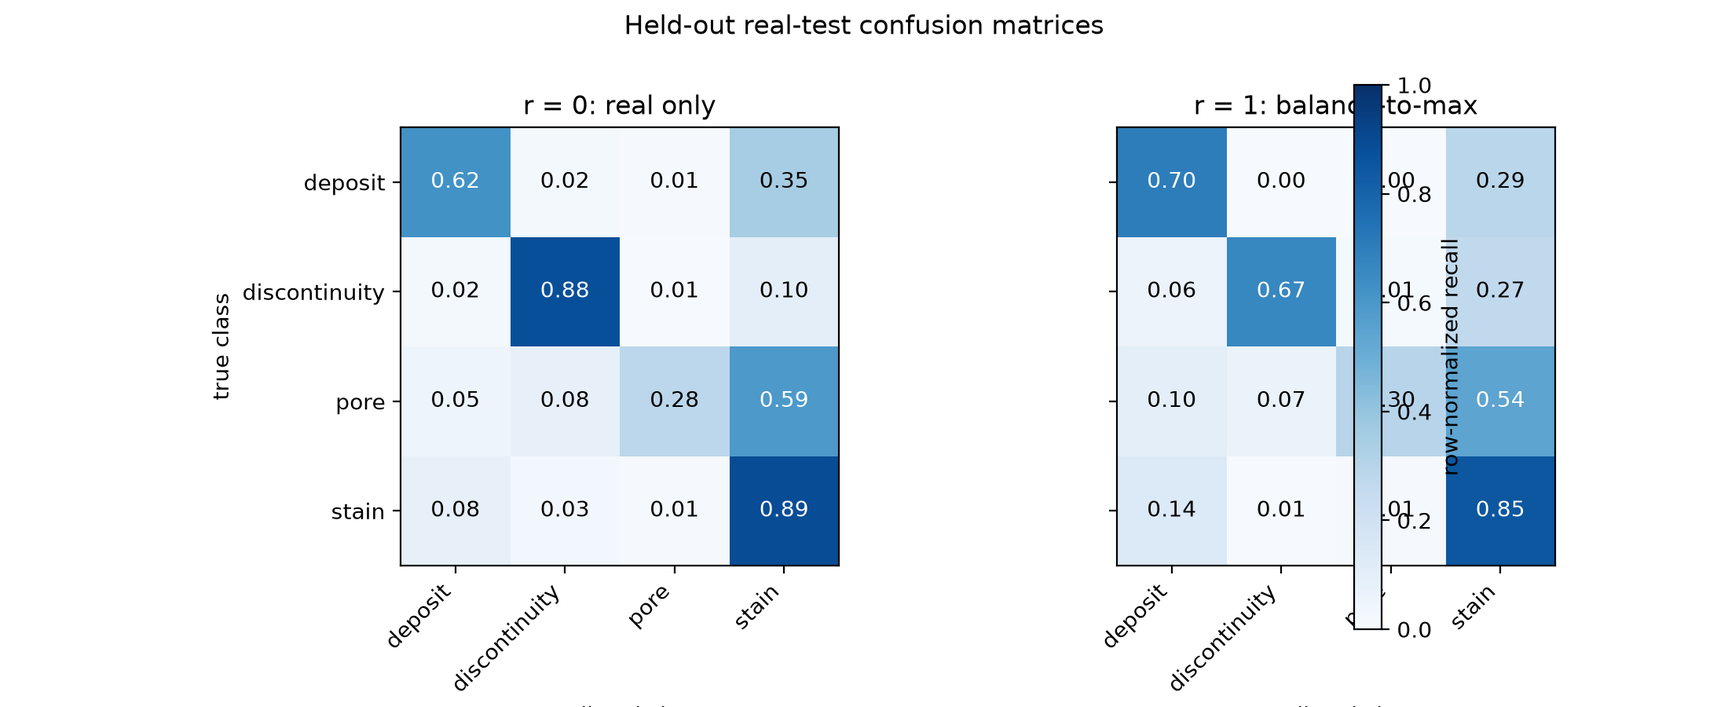
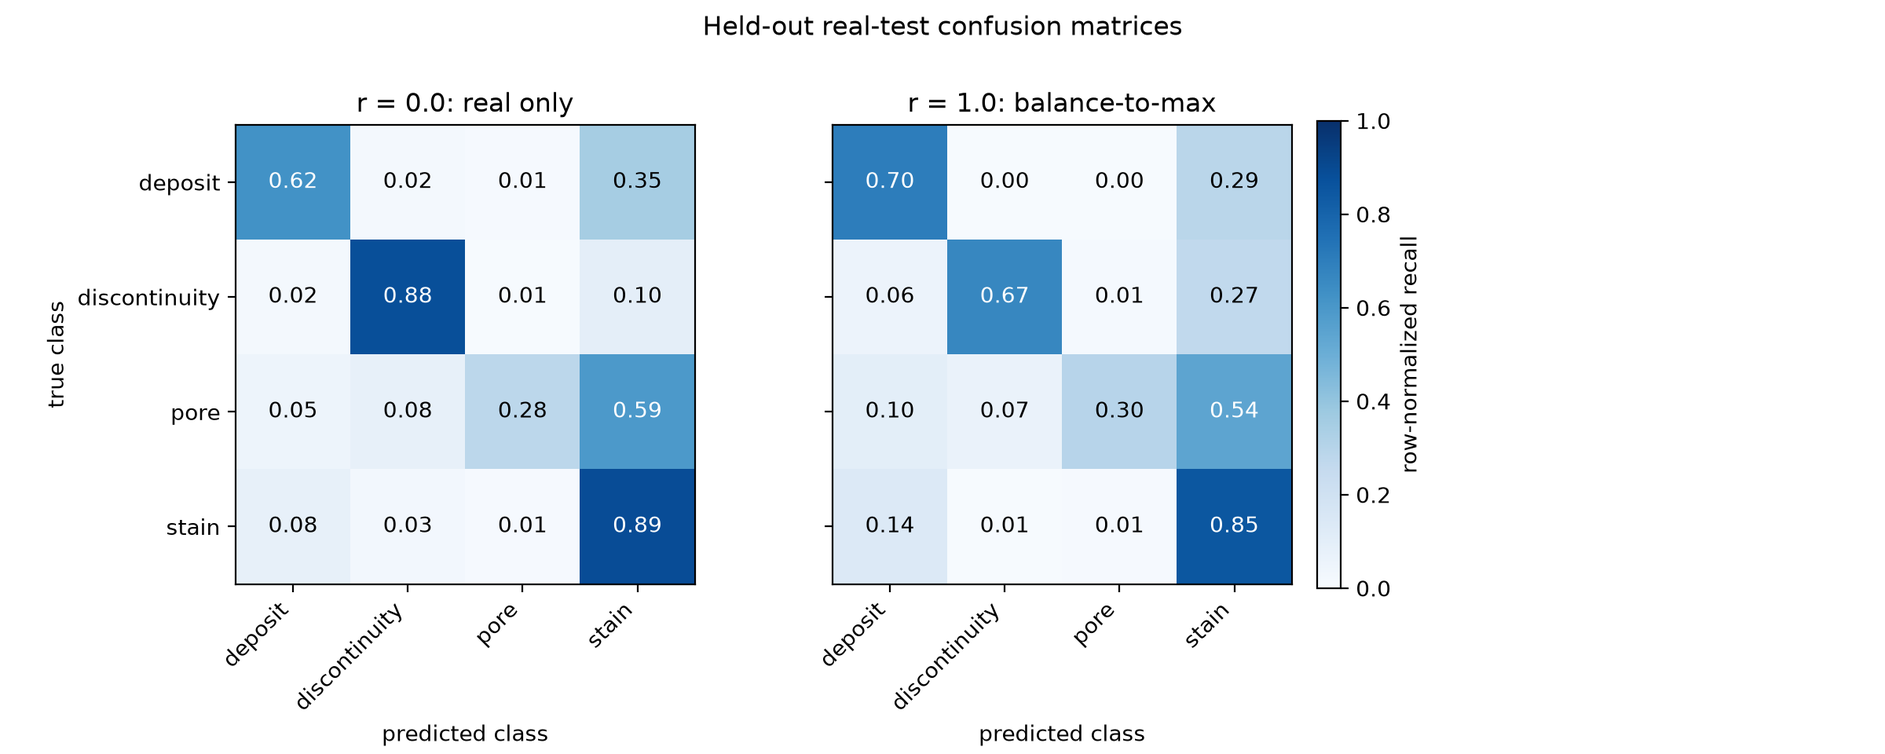
Add Chinese README and fix confusion-matrix colorbar overlap
README_zh-CN.md mirrors the English README so Chinese-speaking readers can
pick up the reproduction without translating it first; both files carry a
language nav link and a note that the English version is normative.

The shared colorbar was created before subplots_adjust, so its position came
from the pre-adjustment layout and the axes then moved underneath it, covering
the right matrix. Reserve the right gutter first and create the colorbar after.

diff --git a/src/make_paper_figures.py b/src/make_paper_figures.py
@@ -163,7 +163,7 @@ def save_confusion_matrices(class_names, condition_a, condition_b, output,
                             labels=("r = 0.0: real only", "r = 1.0: balance-to-max")):
     """Side-by-side row-normalised confusion matrices for two conditions."""
     matrices = [normalize_confusion_matrix(condition_a), normalize_confusion_matrix(condition_b)]
-    fig, axes = plt.subplots(1, 2, figsize=(11, 4.5), sharey=True)
+    fig, axes = plt.subplots(1, 2, figsize=(12, 4.8), sharey=True)
     image = None
     for axis, matrix, title in zip(axes, matrices, labels):
         image = axis.imshow(matrix, vmin=0, vmax=1, cmap="Blues")
@@ -175,11 +175,12 @@ def save_confusion_matrices(class_names, condition_a, condition_b, output,
             axis.text(column, row, f"{matrix[row, column]:.2f}", ha="center", va="center",
                       color="white" if matrix[row, column] > 0.5 else "black")
     axes[0].set_ylabel("true class")
-    fig.colorbar(image, ax=axes, label="row-normalized recall")
     fig.suptitle("Held-out real-test confusion matrices")
-    # A shared colorbar makes the axes incompatible with tight_layout, which would
-    # emit a UserWarning; position them explicitly instead.
-    fig.subplots_adjust(top=0.82, bottom=0.2, wspace=0.15)
+    # Reserve the right-hand gutter BEFORE creating the colorbar: creating it first
+    # and adjusting afterwards leaves the colorbar positioned over the right matrix.
+    # tight_layout is avoided because a shared colorbar makes it emit a UserWarning.
+    fig.subplots_adjust(top=0.84, bottom=0.22, wspace=0.30, right=0.80)
+    fig.colorbar(image, ax=axes.tolist(), pad=0.02, label="row-normalized recall")
     _save(fig, output)
 
 

diff --git a/README_zh-CN.md b/README_zh-CN.md
@@ -1,0 +1,255 @@
+# 面向 WAAM 缺陷图像增广的 Hybrid CVAE-CGAN（非官方复现）
+
+**语言 / Language:** [English](README.md) | 中文
+
+> **同步声明**：英文版 `README.md` 为规范版本（normative）。本中文版与其保持同步更新；若两者出现不一致，以英文版为准。
+
+本仓库是对下列论文所提 hybrid CVAE-CGAN 框架的**非官方、方法学层面**的复现尝试：
+
+> Junle Yang, Lei Yuan, Haochen Mu, Fengyang He, Donghong Ding, Zengxi Pan, Huijun Li, *"Generation of WAAM Defect Images Using a Hybrid CVAE-CGAN: A Data Augmentation Strategy for Small and Imbalanced Datasets"*, Proc. 15th IEEE Int. Conf. on CYBER Technology in Automation, Control, and Intelligent Systems (CYBER 2025), Shanghai, China, 15-18 July 2025. DOI: [10.1109/CYBER67662.2025.11168313](https://doi.org/10.1109/CYBER67662.2025.11168313)
+
+会议论文省略的架构与超参细节，取自同一第一作者的期刊扩展：
+
+> Junle Yang, Lei Yuan, Fengyang He, Zening Wu, Donghong Ding, Zengxi Pan, Huijun Li, *"Physics-guided generative data augmentation for vision-based signal processing under class-imbalanced conditions in directed energy deposition monitoring system"*, Mechanical Systems and Signal Processing, vol. 250, article 114138, 2026. **开放获取（CC BY 4.0）**：DOI: [10.1016/j.ymssp.2026.114138](https://doi.org/10.1016/j.ymssp.2026.114138)
+
+如果本仓库对你的工作有帮助，请引用**上述原始论文**而不是本仓库——它们是方法的来源，本复现的存在正是为了把读者引向它们。
+
+本仓库作为**公开参考**，面向任何想做类似复现的人：记录从论文复现了什么、使用了哪个公开替代数据集、以及实现与原文在哪些地方偏离。
+
+该方法生成类条件焊缝缺陷图像，用于增广小而失衡的数据集。它是**单个联合训练的 hybrid 模型**，而非两阶段流水线：同一个解码器同时充当 CVAE 解码器 `D(z, y)` 与 CGAN 生成器 `G(z, y)`，这正是此处 "hybrid" 的含义。训练最小化如下联合目标：
+
+```
+L_G = MSE_recon  +  beta * KL  +  lambda * VGG19_perceptual  +  gamma * adversarial
+```
+
+生成器与判别器在每个 minibatch 内交替更新、各自反向传播。KL 项把隐空间塑向 `N(0, I)`，使得生成阶段用 `z ~ N(0, I)` 加类标签采样可行；感知项与对抗项负责锐化纯 VAE 会留下的模糊。
+
+## 免责声明
+
+- 本仓库是**仅基于已发表论文的独立复现**，**与原作者及其机构无隶属、背书或任何关联**。
+- 原作者的 WAAM 数据集为专有数据，本项目**未使用、未访问、未索取**。
+- 所有实验均在**公开可获取、许可开放的数据集**上进行（见 `DATA_SOURCES.md`）。各数据集自身许可适用；署名要求保留在数据下载说明中。
+- 本仓库不复制论文中的任何图、表或文字。
+- 本项目复现的是*方法*，**不**声称复现论文的实验结果或报告数字。
+
+## 快速开始
+
+```bash
+pip install -r requirements.txt
+
+# 合成数据自检——任何代码改动后都应先跑这个
+python src/smoke_test.py
+
+# 训练联合模型。--subset 以类名键入，定义小而失衡的训练集；
+# held-out 测试划分先切出，因此生成器永远看不到它。
+python src/train_joint.py --data_root data/lohi \
+  --subset "pore=40,deposit=150,discontinuity=300,stain=600" --val_per_class 200 \
+  --epochs 70 --batch_size 8 --img_size 224 --channels 3 --latent_dim 32 \
+  --lr 1e-3 --lr_d 1e-3 --kl_weight 0.015 --perc_weight 0.1 --adv_weight 0.1 \
+  --out_dir runs/joint_lohi
+
+# 生成 balance-to-max 池：filling rate 1.0 每类所需数量。
+# 类名从 checkpoint 读取并校验，绝不假设。
+python src/generate.py --ckpt runs/joint_lohi/joint.pt \
+  --counts "pore=560,deposit=450,discontinuity=300,stain=0" --out_root generated
+
+# 下游扫描：每个 filling rate 一个从零训练的分类器，
+# 全部在同一个 held-out 真实测试集上评估。
+python src/train_classifier.py --data_root data/lohi --gen_root generated \
+  --subset "pore=40,deposit=150,discontinuity=300,stain=600" \
+  --ratios "0.0,0.25,0.5,0.75,1.0" --channels 3 --epochs 100 --out_dir runs/sweep
+
+# 论文风格图（训练曲线、filling-rate 敏感性、latent t-SNE、
+# 真实/重建/生成、混淆矩阵、类别分布）
+python src/make_paper_figures.py --data_root data/lohi \
+  --ckpt runs/joint_lohi/joint.pt --history runs/joint_lohi/history.csv \
+  --sweep runs/sweep/sweep_metrics.csv --cm_dir runs/sweep \
+  --subset "pore=40,deposit=150,discontinuity=300,stain=600" --channels 3 \
+  --out_dir results
+
+# 独立 FID：两棵图像目录之间
+python src/eval_fid.py --real_root data/lohi --fake_root generated --channels 3
+```
+
+### 使用你自己的数据集
+
+把 `--data_root` 指向一个"类名子文件夹"结构即可。其余均与数据集无关：
+
+- 类别身份在所有地方都**以类名**表达（`--subset`、`--counts`），且每个类名都会对照数据集或 checkpoint 校验。未知或拼错的类名会报错，而不是静默选错类。
+- `--subset` 的数量请依据你自己的每类数量设定。方法面向*小而失衡*数据，因此少数类数量要低到任务尚未被解决，多数类数量设为你希望 balance-to-max 填到的 `N_max`。
+- `--channels 3` 适用于彩色数据；`--img_size` 必须能被 16 整除。
+- `--fft_denoise` 启用论文的 FFT 低通预处理。默认关闭：在 RIAWELC 上实测无必要（频带受限的放射图，见 `CHANGELOG.md`），在 LoHi-WELD 上未测试（采用了更简单的默认）。若你的图像带高频传感器噪声请打开。
+- 若你改动损失归一化，`--kl_weight` 必须重新换算。见 `models.cvae_loss` 与 `CHANGELOG.md` 中的推导。
+
+## 结果 - v0.2.0（LoHi-WELD，当前）
+
+单 seed（42）。生成器：在论文规模子集（pore 40 / deposit 150 / discontinuity 300 / stain 600）上联合训练 CVAE-CGAN，70 epoch 中于第 25 epoch 早停（最佳 epoch 15）。诊断：FID 从 371 降至 216 后在 ~200 平台（仅作诊断，不可与任何已发表 FID 比较）；重建 MSE 0.049–0.060，对照常数均值基线 0.062；样图网格显示清晰的类形态。
+
+**Filling-rate 扫描**——每个 ratio 一个从零训练的 ResNet-18，各 100 epoch，全部在同一个 held-out 纯真实测试集（1,602 张）上评估：
+
+| ratio | accuracy | macro-F1 | weighted-F1 | deposit | discontinuity | pore | stain |
+|---|---|---|---|---|---|---|---|
+| 0.00（仅真实） | 0.8222 | 0.6936 | 0.8177 | 0.6521 | 0.9145 | 0.3778 | 0.8301 |
+| **0.25** | **0.8353** | **0.7264** | **0.8306** | 0.6727 | 0.9203 | 0.4731 | 0.8393 |
+| 0.50 | 0.8178 | 0.6767 | 0.8078 | 0.6108 | 0.9097 | 0.3590 | 0.8273 |
+| 0.75 | 0.8141 | 0.7029 | 0.8064 | 0.5957 | 0.8977 | **0.4902** | 0.8281 |
+| 1.00（balance-to-max） | 0.7392 | 0.6418 | 0.7403 | 0.6199 | 0.7932 | 0.3871 | 0.7669 |
+
+两个按实测报告的发现：
+
+1. **增广帮助少数类。** pore（304 张真实裁剪，稀缺类）在 r=0.25 获 +0.095 F1、r=0.75 获 +0.112；macro-F1 在 r=0.25 达峰，较仅真实基线 +0.033。这是方法的核心论断，在公开数据集上得到演示。
+2. **论文的 balance-to-max 建议在此不迁移。** r=1.0 是*最差*比例（macro-F1 0.642，低于 0.694 基线），而期刊扩展报告单调改善并在 1.0 达峰。可能原因是生成器保真度：r=1.0 时三个类约一半训练集为合成图，而我们的样本比论文的糊，灌满会稀释真实信号而非强化它。请把"填到 N_max"当作在你自己数据上待检验的假设，而非默认。
+
+`results/` 中的图：`filling_rate_curve.png`（上述扫描）、`training_curves.png`（各损失分量与每 epoch FID）、`reconstruction_comparison.png`（真实/重建/生成）、`latent_tsne.png`（编码器隐空间投影）、`confusion_matrices.png`（r=0 vs r=1）、`class_distribution.png`，以及每类特写（`class_*.png`）与真实-生成对照网格（`real_vs_generated.png`）。
+
+**注意事项。** 单 seed——小于 ~0.02 macro-F1 的差异请视为噪声。下游分类器是单帧图像上从零训练的 ResNet-18，而非论文在 21 帧序列上的 LSTM/GRU，因此绝对分数不可与论文比较。详见上文局限列表与 `docs/CALIBRATION.md` 的完整标定记录。
+
+## 结果 - v0.1.0（已被取代，请勿引用）
+
+> **这些数字来自已删除的两阶段骨架在全量数据集上的运行，那不是本仓库现在遵循的协议。** FID 值另外**无效**：当时把 [0, 1] 图像喂给期望 [-1, 1] 的 InceptionV3（`transform_input=False`），所有激活都偏离分布。它们不可与文献 FID 比较、不可跨该修复互相比较、也不可与当前结果比较。保留它们仅因 v0.1.0 曾带着它们发布。见 `CHANGELOG.md`。
+
+全量 RIAWELC 数据集（24,407 张，128x128，batch 64）上的单 seed 运行。这些数字描述*本复现*在替代数据集上的表现，**不**可与原论文结果比较。
+
+| 阶段 | 设置 | 结果 |
+|---|---|---|
+| Stage 1 CVAE | 100 epochs, latent dim 128 | 最终 L1 重建 0.102, KL ~7.0 |
+| Stage 2 CGAN | 200 epochs, G 由 CVAE 解码器初始化 | 最终 D loss 0.38, 无模式坍缩 |
+| FID (InceptionV3) | 24,407 真实 vs 4,000 生成 | 37.96 |
+
+下游增广增益实验（预训练 ResNet-18，分层 80/20 纯真实测试划分，seed 42）：条件 A = 失衡真实子集（每缺陷类保留 20%，约 7.7k 张），条件 B = A + 每缺陷类 1,000 张生成图（约 10.7k）。两条件均达 ~99.4% 测试准确率（macro-F1 0.9931 vs 0.9932）——**该数据集上无可测增广增益**：ImageNet 预训练分类器即使在失衡基线下也几乎完美解决 RIAWELC，任务饱和、没有留给增广的空间。论文的设置（1,898 张专有熔池图、最少每类 36 张）难得多；要演示增益需要更难的替代任务。该负面结果按原样报告。协议说明见 `src/train_classifier.py`；生成器曾在全部真实图上训练，故生成数据可能携带测试图信息（与论文相同的协议局限）。
+
+每类真实 vs 生成样本（上排真实，下排生成）：
+
+![Real vs generated samples](results/real_vs_generated.png)
+
+每类特写（上排真实，下排生成；标题中的数字是该类 FID——越低越好；归一化非标准，因此只可类间互比，不可与文献值比较）：
+
+| CR（裂纹）, FID 71.9 | LP（未焊透）, FID 63.5 |
+|---|---|
+| ![CR close-up](results/class_CR.png) | ![LP close-up](results/class_LP.png) |
+| **PO（气孔）, FID 83.5** | **ND（无缺陷）, FID 14.7** |
+| ![PO close-up](results/class_PO.png) | ![ND close-up](results/class_ND.png) |
+
+## 仓库结构
+
+```
+src/models.py             编码器、解码器(=生成器)、判别器、损失
+src/data.py               类文件夹加载器、FFT 去噪、无泄漏划分
+src/augment.py            balance-to-max filling-rate 协议
+src/prepare_yolo_crops.py 检测格式数据集 -> 类文件夹裁剪(含 ROI 步骤)
+src/train_joint.py        联合 CVAE-CGAN 训练(论文的单阶段)
+src/generate.py           类条件采样, 数量以类名键入
+src/eval_fid.py           FID(InceptionV3 特征) 与输入归一化
+src/train_classifier.py   下游 filling-rate 扫描(从零 ResNet-18)
+src/make_paper_figures.py 训练曲线、敏感性曲线、t-SNE、混淆矩阵
+src/make_comparison.py    真实-生成对照网格, 输出到 results/
+src/make_class_figures.py 每类特写(含每类 FID)
+src/smoke_test.py         单元检查 + 合成数据端到端运行
+```
+
+## 数据
+
+当前实验使用 **[LoHi-WELD](https://github.com/SylvioBlock/LoHi-Weld)**（Block et al., IEEE Access 2024）：3,022 张**可见光**焊缝图像、四个缺陷类，允许免费研究与商用、需引用。与被复现论文的熔池图像一样是可见光；其高分辨率焊缝裁出 8,012 个缺陷补丁、类失衡 **11.6×**——接近会议论文的 14.7×。
+
+它以检测数据形式发布（图像 + YOLO 标签对），因此 `src/prepare_yolo_crops.py` 把每个标注框裁进类文件夹；该裁剪同时就是论文的 ROI 提取预处理步骤。精确制备命令、每类数量与许可条款见 `DATA_SOURCES.md`。
+
+**RIAWELC**（X 光放射图）曾被 v0.1.0 与生成器标定记录使用，现在仅为历史脚注——当前没有任何数字源自它。其引用被保留，因为那些已公开的结果用过它。见 `DATA_SOURCES.md`。
+
+本仓库不打包任何数据集，也永远不应提交——`data/`、`generated/`、`runs/` 与 `*.pt` 按设计被 git-ignore。下载链接、使用条款与许可干净的替代见 `DATA_SOURCES.md`。
+
+## 局限与诚实说明
+
+引用本仓库任何数字前请先读此节。
+
+- **数据不同、模态相同。** 论文在专有可见光熔池图像上训练（1,898 张、9 类、最高 14.7× 失衡）。本仓库使用公开 LoHi-WELD 可见光焊缝，因此*模态*现在匹配，但缺陷语义、相机几何与尺度仍不同。此处任何结果都不复现或验证论文的数字。
+- **"小而失衡"条件是模拟的。** LoHi-WELD 的 8,012 裁剪、11.6× 失衡比论文设置更大更温和，因此主实验抽取一个小而失衡的子集（`--subset "pore=40,deposit=150,discontinuity=300,stain=600"`，15× 失衡，balance-to-max 目标 600）以重建论文条件。这些数量是你应依据自己数据集设定的参数，不是方法的属性。
+- **下游分类器不是论文的分类器。** 两篇论文都在 21 帧时序序列上评估 LSTM/GRU 模型。静态焊缝图像没有时间轴，无法构造序列；故以单帧上从零训练的 ResNet-18 替代，尊重论文对轻量非预训练模型的偏好。准确率与 F1 因此不可与论文比较——只有协议可比。
+- **FID 在此是趋势指标，不是绝对分数。** 数据集、分辨率与参考集都不同于任何已发表 FID。只在本仓库内比曲线，绝不跨仓库比。
+- **四个超参是标定的，不是照抄的。** KL 权重（0.015 vs 论文 30）、判别器学习率、FFT 去噪步（关闭）、分辨率（224 vs 400）各自因实测原因与会议论文不同。对抗目标遵循**期刊扩展**（hinge + spectral normalisation）而非会议论文的 BCE minimax，因为无界 BCE 项在该数据规模下摧毁重建。证据与复现命令：[`docs/CALIBRATION.md`](docs/CALIBRATION.md)。
+- **单 seed。** 所有报告数字均为 seed 42 的单次运行。该规模下 GAN 训练有噪声；小于几个点的差异请视为噪声内。
+- **构造上无泄漏。** 生成器永远看不到分类器的 held-out 测试图。这比严格必要更严，是对论文 "real, unseen images" 的诚实读法；也意味着报告的增益（若有）未被测试集信息 inflate。
+
+### 范围：本仓库刻意不复现的部分
+
+- **期刊扩展的物理引导生成不在范围内。** 它相对会议论文的贡献是对生成熔池信号的热力学/边界约束。静态焊缝图像不含可条件化的热/时序信号，因此这些约束在此不可实现、也未被尝试。本仓库只借用期刊的 GAN 目标（hinge + spectral normalisation）与少数超参细节。
+- **时序/序列增广不在范围内。** 期刊增广并评估 21 帧序列；本仓库生成并评估单帧，因为两个替代数据集都是静态图像。
+- **报告的运行不含论文的 FFT 去噪步。** 它已实现（`--fft_denoise`）但关闭：在 RIAWELC 上实测无必要、在 LoHi-WELD 上未测试。因此 v0.2.0 的数字描述的是*不含*该预处理步的流水线。
+- **结构与目标来自不同论文。** 训练结构（单阶段联合模型、Sub-Pixel 解码器、70 epoch、lr 1e-3）遵循会议论文；对抗目标（hinge + spectral normalisation）遵循期刊扩展，因为 BCE 在该数据规模下被证明不稳定。
+- **编码器卷积体是已记录的偏离。** 论文用 3×3 残差块 + max pooling（会议）或 GroupNorm（期刊），我们用 plain 4×4 stride-2 块 + BatchNorm；只有聚合方式（1×1 缩减 + 池化）对齐。判别器与会议拓扑一致、仅差省略的 dropout。卷积拓扑不是两篇论文声称的贡献、它们也未消融它，因此任何质量差异不能归因于它；模块签名使替换块对需要架构完全一致的人是 drop-in 改动。
+- **论文的 DR/MDR 指标未报告。** 它们是缺陷 vs 正常的比率；LoHi-WELD 的四类全是缺陷类型、没有非缺陷类，因此这些比率在此不可定义。每类 recall 是最接近的类比。
+
+## 复用本工作
+
+想生成你自己的训练数据？准备类文件夹图像（或按 `DATA_SOURCES.md` 拉取 LoHi-WELD），运行 `src/train_joint.py`，再用 `src/generate.py` 以 `src/augment.py` 的每类数量采样。你训练的模型生成的图像归你使用；代码为 MIT 许可。欢迎链回本仓库，但不强制。
+
+## 许可证
+
+代码：[MIT](LICENSE)。第三方数据集保留其自身许可。
+
+## 引用方式
+
+如果本复现对你的工作有帮助，请引用**原始论文**与**数据集**而不是本仓库。[`CITATION.cff`](CITATION.cff) 列两组：被复现论文加每个数据集的强制引用（请引这些），以及第二组实现组件引用——FID、t-SNE、InceptionV3、ResNet-18、VGG19——为本仓库分析与骨干所用组件的署名。
+
+```bibtex
+% --- 主方法参考（被复现的会议论文）---
+@inproceedings{yang2025hybridcvaecgan,
+  title     = {Generation of WAAM Defect Images Using a Hybrid CVAE-CGAN:
+               A Data Augmentation Strategy for Small and Imbalanced Datasets},
+  author    = {Yang, Junle and Yuan, Lei and Mu, Haochen and He, Fengyang and
+               Ding, Donghong and Pan, Zengxi and Li, Huijun},
+  booktitle = {Proc. 15th IEEE International Conference on CYBER Technology
+               in Automation, Control, and Intelligent Systems (CYBER 2025)},
+  address   = {Shanghai, China},
+  month     = jul,
+  year      = {2025},
+  doi       = {10.1109/CYBER67662.2025.11168313}
+}
+
+% --- 次要方法参考（期刊扩展；提供会议论文省略的细节）。CC BY 4.0 开放获取。---
+@article{yang2026physicsguided,
+  title   = {Physics-guided generative data augmentation for vision-based
+             signal processing under class-imbalanced conditions in directed
+             energy deposition monitoring system},
+  author  = {Yang, Junle and Yuan, Lei and He, Fengyang and Wu, Zening and
+             Ding, Donghong and Pan, Zengxi and Li, Huijun},
+  journal = {Mechanical Systems and Signal Processing},
+  volume  = {250},
+  pages   = {114138},
+  year    = {2026},
+  doi     = {10.1016/j.ymssp.2026.114138}
+}
+
+% --- 以下两条 RIAWELC 引用是该数据集的强制使用条款 ---
+@inproceedings{totino2022riawelc,
+  title     = {RIAWELC: A Novel Dataset of Radiographic Images for
+               Automatic Weld Defects Classification},
+  author    = {Totino, Benito and Spagnolo, Fanny and Perri, Stefania},
+  booktitle = {Proc. Interdisciplinary Conference on Mechanics, Computers
+               and Electrics (ICMECE 2022)},
+  address   = {Barcelona, Spain},
+  month     = oct,
+  year      = {2022}
+}
+
+@article{perriweldingdefects,
+  title   = {Welding Defects Classification Through a Convolutional
+             Neural Network},
+  author  = {Perri, Stefania and Spagnolo, Fanny and Frustaci, Fabio and
+             Corsonello, Pasquale},
+  journal = {Manufacturing Letters},
+  note    = {In press, Elsevier. Recorded as "in press" by the RIAWELC
+             repository, so no year, volume or pages are asserted here}
+}
+
+% --- 作为主实验的可见光焊缝缺陷数据集 ---
+@article{block2024lohiweld,
+  title   = {LoHi-WELD: A Novel Industrial Dataset for Weld Defect Detection
+             and Classification, a Deep Learning Study, and Future
+             Perspectives},
+  author  = {Block, Sylvio Biasuz and Dutra da Silva, Ricardo and
+             Lazzaretti, Andre Eugenio and Minetto, Rodrigo},
+  journal = {IEEE Access},
+  year    = {2024},
+  doi     = {10.1109/ACCESS.2024.3407019}
+}
+```

diff --git a/CHANGELOG.md b/CHANGELOG.md
@@ -13,6 +13,10 @@ them. This file keeps only the conclusions.
 
 ### Added
 
+- **Bilingual README.** `README_zh-CN.md` mirrors the English README for
+  Chinese-speaking readers; both files carry a navigation link at the top and a
+  sync note stating the English version is normative and the Chinese translation
+  is maintained in sync with it.
 - **Explicit out-of-scope statement** in `README.md` ("Scope: what this repo
   deliberately does NOT reproduce"): the journal extension's physics-guided
   generation and its temporal/sequence augmentation are not reproduced (static
@@ -31,6 +35,14 @@ them. This file keeps only the conclusions.
   reproduced papers and datasets.
 - **LoHi-WELD provenance note** in `DATA_SOURCES.md`: its repository is built on
   WongKinYiu's YOLOv7; only the dataset and annotations are used here.
+
+### Fixed
+
+- **Confusion-matrix figure overlap.** The shared colorbar was created before
+  `subplots_adjust`, so its position was computed from the pre-adjustment layout
+  and then the axes moved underneath it, covering the right matrix's third column
+  and title. The right-hand gutter is now reserved first (`right=0.80`) and the
+  colorbar created afterwards; `results/confusion_matrices.png` was redrawn.
 
 ## v0.2.0 - 2026-09-06 (commit 1b68788)
 

diff --git a/README.md b/README.md
@@ -1,5 +1,10 @@
 # Hybrid CVAE-CGAN for WAAM Defect Image Augmentation (Unofficial Re-implementation)
 
+**Language / 语言:** English | [中文](README_zh-CN.md)
+
+> The English README is normative. The Chinese translation (`README_zh-CN.md`) is
+> maintained in sync with it; if the two ever diverge, the English version wins.
+
 An **unofficial, method-level re-implementation attempt** of the hybrid CVAE-CGAN framework proposed in:
 
 > Junle Yang, Lei Yuan, Haochen Mu, Fengyang He, Donghong Ding, Zengxi Pan, Huijun Li, *"Generation of WAAM Defect Images Using a Hybrid CVAE-CGAN: A Data Augmentation Strategy for Small and Imbalanced Datasets"*, Proc. 15th IEEE Int. Conf. on CYBER Technology in Automation, Control, and Intelligent Systems (CYBER 2025), Shanghai, China, 15-18 July 2025. DOI: [10.1109/CYBER67662.2025.11168313](https://doi.org/10.1109/CYBER67662.2025.11168313)
